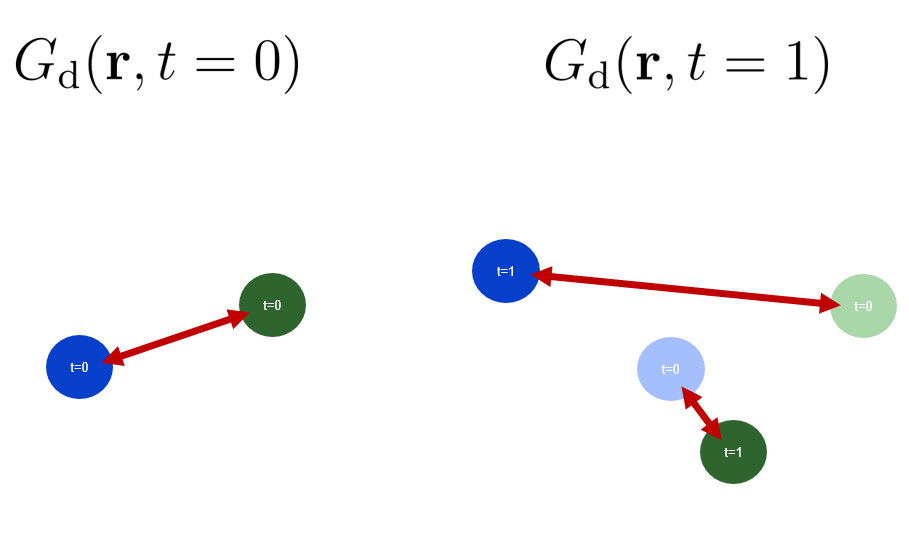
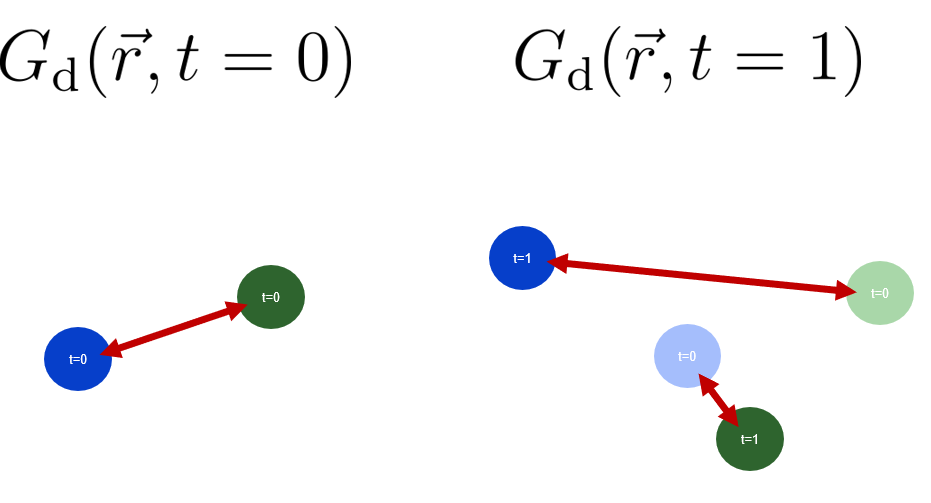
fixed tutorial 1 scripts, added tutorial 2 scripts and updated tuturial 2 readme.

diff --git a/tutorials/tutorial2-van-hove-function/mdanse_inputs/script1_conversion.py b/tutorials/tutorial2-van-hove-function/mdanse_inputs/script1_conversion.py
@@ -1,4 +1,4 @@
-#!/usr/bin/env python
+#!C:\Users\xcb63893\AppData\Local\anaconda3\envs\MDANSE\python.exe
 
 ########################################################
 # This is an automatically generated MDANSE run script #
@@ -11,14 +11,14 @@ from MDANSE.Framework.Jobs.IJob import IJob
 ########################################################
 
 parameters = {
-    'atom_aliases': '{"mass=96.0": {"1": "Mo"}}',       # Atom mapping
-    'config_file': '../md_inputs/structure.txt',  # LAMMPS configuration file
+    'atom_aliases': '{"mass=36.0": {"1": "Ar36"}}',     # Atom mapping
+    'config_file': '../md_inputs/argon_start_structure.txt',  # LAMMPS configuration file
     'fold': False,                                      # Fold coordinates in to box
-    'lammps_units': 'electron',                         # LAMMPS unit system
+    'lammps_units': 'real',                             # LAMMPS unit system
     'n_steps': '0',                                     # Number of time steps (0 for automatic detection)
-    'output_files': ('../mdanse_outputs/converted_trajectory', 32, 128, 'gzip', "INFO"),  # MDANSE trajectory (filename, format)
-    'time_step': '0.2',                                 # Time step (lammps units, depends on unit system)
-    'trajectory_file': '../md_outputs/trajectory.txt',  # LAMMPS trajectory file
+    'output_files': ('../mdanse_outputs/converted_trajectory', 64, 128, 'gzip', 'INFO'),  # MDANSE trajectory (filename, format)
+    'time_step': '1.0',                                 # Time step (lammps units, depends on unit system)
+    'trajectory_file': '../md_outputs/argon_traj_120fs_85k.txt',  # LAMMPS trajectory file
     'trajectory_format': 'custom',                      # LAMMPS trajectory format
 }
 

diff --git a/tutorials/tutorial2-van-hove-function/mdanse_inputs/script2_vhfd.py b/tutorials/tutorial2-van-hove-function/mdanse_inputs/script2_vhfd.py
@@ -1,0 +1,29 @@
+#!C:\Users\xcb63893\AppData\Local\anaconda3\envs\MDANSE\python.exe
+
+########################################################
+# This is an automatically generated MDANSE run script #
+########################################################
+
+from MDANSE.Framework.Jobs.IJob import IJob
+
+########################################################
+# Job parameters                                       #
+########################################################
+
+parameters = {
+    'atom_selection': '{"all": true}',                  # atom_selection
+    'frames': [0, 1001, 1, 501],                        # frames
+    'output_files': ('../mdanse_outputs/vanhovefunctiondistinct', ['MDAFormat'], 'INFO'),  # output_files
+    'r_values': [0.0, 1.14, 0.01],                      # r values (nm)
+    'running_mode': ('single-core',),                   # running_mode
+    'trajectory': '../mdanse_outputs/converted_trajectory.mdt',  # trajectory
+    'weights': 'equal',                                 # weights
+}
+
+########################################################
+# Setup and run the analysis                           #
+########################################################
+
+if __name__ == "__main__":
+    vanhovefunctiondistinct = IJob.create('VanHoveFunctionDistinct')
+    vanhovefunctiondistinct.run(parameters, status=True)

diff --git a/tutorials/tutorial2-van-hove-function/mdanse_inputs/script3_vhfs.py b/tutorials/tutorial2-van-hove-function/mdanse_inputs/script3_vhfs.py
@@ -1,0 +1,29 @@
+#!C:\Users\xcb63893\AppData\Local\anaconda3\envs\MDANSE\python.exe
+
+########################################################
+# This is an automatically generated MDANSE run script #
+########################################################
+
+from MDANSE.Framework.Jobs.IJob import IJob
+
+########################################################
+# Job parameters                                       #
+########################################################
+
+parameters = {
+    'atom_selection': '{"all": true}',                  # atom_selection
+    'frames': [0, 1001, 1, 31],                         # frames
+    'output_files': ('../mdanse_outputs/vanhovefunctionself', ['MDAFormat'], 'INFO'),  # output_files
+    'r_values': [0.0, 1.14, 0.01],                      # r values (nm)
+    'running_mode': ('single-core',),                   # running_mode
+    'trajectory': '../mdanse_outputs/converted_trajectory.mdt',  # trajectory
+    'weights': 'equal',                                 # weights
+}
+
+########################################################
+# Setup and run the analysis                           #
+########################################################
+
+if __name__ == "__main__":
+    vanhovefunctionself = IJob.create('VanHoveFunctionSelf')
+    vanhovefunctionself.run(parameters, status=True)

diff --git a/tutorials/tutorial2-van-hove-function/README.md b/tutorials/tutorial2-van-hove-function/README.md
@@ -1,4 +1,4 @@
-# MDANSE Tutorial 2: The van Hove functions
+# MDANSE Tutorial 2: the van Hove functions
 
 This tutorial will show you:
 * how to run an analysis related to the van Hove functions,
@@ -41,7 +41,7 @@ n_0 g(r) = \frac{1}{4 \pi r^2} \frac{1}{N} \sum_{k \neq j} \langle \delta (r - \
 ```
 
 **Question 1**: Try to derive this equation. Think about what $N(r)$ is 
-and therefore what $\mathrm{d}N(r) = N(r + \mathrm{d}r) - N(r)$ should be.
+and what $\mathrm{d}N(r) = N(r + \mathrm{d}r) - N(r)$ should be.
 
 For more details on running PDF calculations with MDANSE 
 see **MDANSE Tutorial 1: a phase transition**.
@@ -78,16 +78,16 @@ atom at different times.
 
 ![vhd_diagram](pictures/vhd_diagram.png)
 
-The above figure shows the distances (red arrows) that the distinct-part 
+The above figure shows the vectors (red arrows) that the distinct-part 
 of the van Hove function depends on. At $t=0$ the van Hove function is simply 
 the PDF. After a some time the blue and green atoms move 
 some distance, the distinct-part of the van Hove function depends on the 
-distances between atoms at $t=0$ and $t=1$.
+vectors between atoms at $t=0$ and $t=1$.
 
 ![vhs_diagram](pictures/vhs_diagram.png)
 
 The self-part of the van Hove function is closely related to the 
-diffusion of a particle. The above figure shows the distances (red arrows) 
+diffusion of a particle. The above figure shows the vectors (red arrows) 
 that the self-part of the van Hove function depends on. At $t=0$ there 
 are no arrows since the distance of at atom with itself is zero so that 
 the van Hove function is a delta function 
@@ -97,8 +97,8 @@ with itself at different times.
 
 ## Scenario of this tutorial
 
-We will analyse a trajectory of liquid argon using the self and 
-distinct-parts of the van Hove functions and see how they change as a 
+We will analyse a trajectory of liquid argon using the self-part and 
+distinct-part of the van Hove functions and see how they change as a 
 function of time.
 
 # Files
@@ -111,10 +111,16 @@ These are the input files needed to re-run the MD simulation:
 * argon.lmp - a LAMMPS script
 
 ## md_outputs
-These are the LAMMPS files:
+These are the LAMMPS output files:
 * argon_traj_120fs_85k.txt - a LAMMPS custom format trajectory
 
 ## mdanse_inputs
+These are the scripts that, when run from the mdanse_inputs
+directory, will produce the outputs of the mdanse runs
+described in this tutorial.
+* script1_conversion.py - produces the MDANSE-format trajectory.
+* script2_vhfd.py - calculates the distinct-part of the van Hove function of the simulated system.
+* script3_vhfs.py - calculates the self-part of the van Hove function of the simulated system.
 
 ## mdanse_outputs
 All the files created by MDANSE will be written here.
@@ -146,61 +152,61 @@ the generic output filename `mdanse_outputs/converted_trajectory.mdt`.
 Select the VanHoveFunctionDistinct job leaving the setting to the 
 defaults. To speed the calculation up you may want to switch the 
 running mode to multicore and the number of processes to a number 
-greater than 1. Set the outputs file to saving the output
-to `mdanse_outputs/vanhovefunctiondistinct.mda`, hit run and wait 
-for the job to complete, you check the running jobs tab to check the 
+greater than 1. Set the outputs file to setting to 
+`mdanse_outputs/vanhovefunctiondistinct.mda`, hit run and wait 
+for the job to complete, you can look at the 'Running Jobs' tab to check the 
 progress of the job.
 
 ![vhd_gui](pictures/vhd_gui.png)
 
 Once complete the results would load up automatically. Go to the 
 plot creator and plot the `g(r,t)_total` result. Go to the plot holder 
-and in the dataset table set the `g(r,t)_total` to have a main axis for 
-`r` and the Use it? setting to `0,10,20`.
+and in the dataset table set the `g(r,t)_total` to have a 'Main axis' for 
+`r` and the 'Use it?' setting to `0,10,20`.
 
 ![vhd_plotting_gui](pictures/vhd_plotting_gui.png)
 
-Note that in MDANSE the van Hove function is spherically averaged and is 
-divided by $n_0$. This means that for liquid and gas system, 
+Note that in MDANSE the van Hove function is spherically averaged and normalized 
+by dividing by $n_0$. This means that for liquid and gas system, 
 the van Hove function tends towards 1 for large values of $r$. We can see that 
-time advances, the van Hove function begins to flatten and the 
+as time advances, the van Hove function begins to flatten and the 
 correlation hole around each atom begins to fill up. The correlation hole 
 is absence of atoms that exists around each atom due to the short-range 
-repulsive effects for the atoms on each other. On the PDF this is the 
-part at short distances that are zero. As time progresses the atoms move 
-and this allows other atoms to move into the hole.
+repulsive effects between atoms. On the PDF the correlation hole is 
+the part at short distances with values of zero. As time progresses, 
+the atoms move and this allows other atoms to move into the correlation hole.
 
 **Question 2**: We know that at $t=0$ that the distinct-part of the van 
 Hove function is the PDF. What does the van Hove function become as 
 $t \rightarrow \infty$ for solid, liquid and gaseous systems?
 
 ## Calculate the self-part of the van Hove function
-Select the VanHoveFunctionSelf job leaving the setting to the 
+Select the VanHoveFunctionSelf job leaving the setting to the default 
 except for the correlation frames which we will set to 31. This will 
 mean that there will have 31 time steps of the correlation function, the 
 number configurations each time step of the correlation function will be 
-971 = 1001 - 30 + 1. Set the outputs file to saving the output to 
-`mdanse_outputs/vanhovefunctionself.mda` and hit run. 
+averaged over will be 971 = 1001 - 30 + 1. Set the outputs file to saving 
+the output to `mdanse_outputs/vanhovefunctionself.mda` and hit run. 
 
-Go to the plot 
-creator and plot the `g(r,t)_total` result. Go to the plot holder and in 
-the dataset table set the `g(r,t)_total` to have a main axis for `r`. 
-Notice that for $t=0$ you get one large value near zero, remember that at 
-$t=0$ the self-part of the van Hove function is a delta function. Set 
-the main axis to `r` and Use it? setting to `10,20,30`. You may need to 
-zoom in for the plots towards the smaller distances.
+Go to the plot creator and plot the `g(r,t)_total` result. Go to the plot 
+holder and in the dataset table set the `g(r,t)_total` to have a main 
+axis for `r`. Notice that for $t=0$ you get one large value near zero, 
+remember that at $t=0$ the self-part of the van Hove function is a delta 
+function. Set the main axis to `r` and Use it? setting to `10,20,30`. 
+You may need to zoom in for the plots towards the smaller distances.
 
 ![vhd_plotting_gui](pictures/vhs_plotting_gui.png)
 
 Similarly to the distinct-part, the self-part of the van Hove function 
-is spherically averaged and is divided by $n_0$.
-We can see from the above plots the distributions of the atoms from its 
-initial position at 10, 20 and 30 time steps from $t=0$. The self-part 
-of the van Hove function is closely related to the diffusion of an atom.
+is spherically averaged and is divided by $n_0$. We can see from the above 
+plots the distributions of the atoms from its initial position at 10, 20 and 
+30 time steps from $t=0$. The self-part of the van Hove function is closely 
+related to the diffusion of an atom.
 
 **Question 3**: What does the self-part of the van Hove function become as 
 $t \rightarrow \infty$ for solid, liquid and gaseous systems?
 
+# Answers
 
 ## Question 1:
 
@@ -209,11 +215,11 @@ n_0 g(r) 4 \pi r^2 \mathrm{d}r = \mathrm{d}N(r)
 ```
 
 The function $N(r)$ is a sum of step functions so that $N(r)$
-increases by one as $r$ increases each time it comes across an atom on average. 
-Therefore, $\mathrm{d}N(r) = N(r + \mathrm{d}r) - N(r)$ and $\mathrm{d}N(r)$ will be the 
-average number of particles in the shell volume. The derivative of $N(r)$ will be 
-the derivative of the step functions which are delta functions each 
-centered on the distances away to another atom.
+increases by one as $r$ increases each time it comes across an atom. 
+Therefore, $\mathrm{d}N(r) = N(r + \mathrm{d}r) - N(r)$ and $\mathrm{d}N(r)$ 
+will be the average number of particles in the shell volume. The derivative 
+of $N(r)$ will be the derivative of the step functions which are delta 
+functions each centered on the distances away to other atoms.
 
 ```math
 \frac{\mathrm{d}N(r)}{\mathrm{d}r} = \frac{1}{N} \sum_{k \neq j} \langle \delta (r - \vert \vec{r}_k - \vec{r}_j \vert) \rangle
@@ -225,22 +231,21 @@ average over all possible atom origins.
 
 ## Question 2:
 
-For a solid systems atoms are fixed in specific sites so the 
-distinct part of the van Hove function does not change much. So as 
-$t \rightarrow \infty$ the van Hove function is more or less the same 
+For a solid systems, atoms are fixed in specific sites so the 
+distinct part of the van Hove function does not change much. As 
+$t \rightarrow \infty$, the van Hove function is more or less the same 
 as it is for any other time. For liquid and gaseous system the situation 
 is quite different since atoms are free to move across the system, so that
 $G_{\mathrm{d}}(\vec{r}, t \rightarrow \infty) = n_0$ or $1$ in MDANSE 
 since it has been normalized. In other words this results tell us that 
 there is no correlation between the configurations at $t=0$ and $t = \infty$.
 
-
 ## Question 3:
 
 For a solid each atom will be fixed at specific sites. They oscillate 
 around those sites so the self-part of the van Hove function for long 
-times will be a function which described the probability of the atom 
+times will be a function which describes the probability of the atom 
 around the center of its site. For liquid and gaseous system all atoms 
 are free diffuse move across the entire system. For 
-$\lim_{t \rightarrow \infty} G_{\mathrm{s}}(\vec{r}, t) = V^{-1}$ or $N^{-1}$ 
+$G_{\mathrm{s}}(\vec{r}, t \rightarrow \infty) = V^{-1}$ or $N^{-1}$ 
 in MDANSE since it has been normalized.
